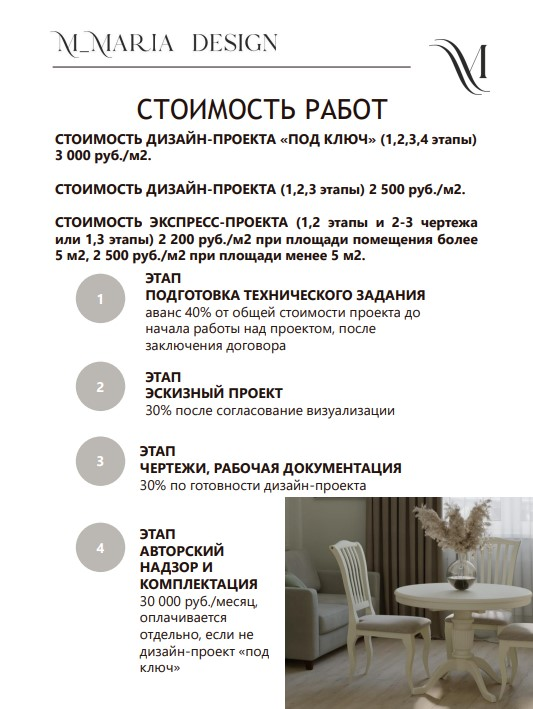
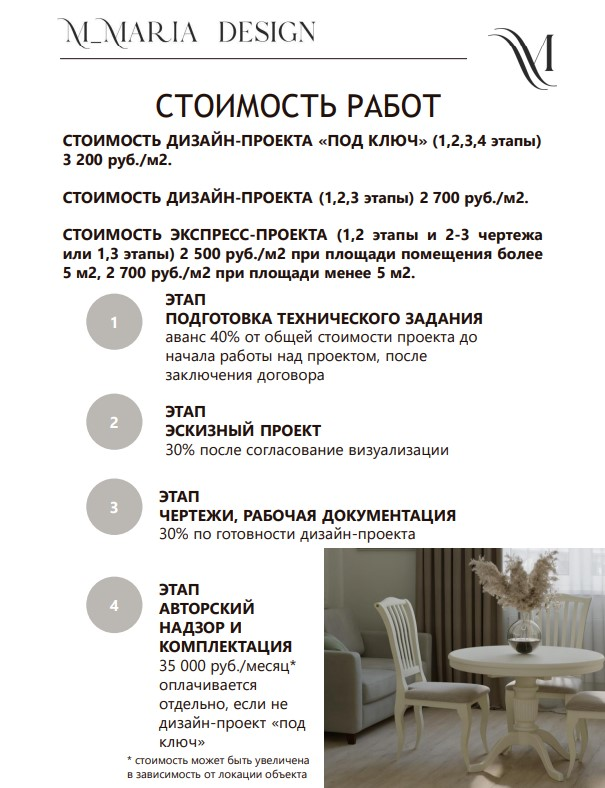
changed service prices Maria_Design

diff --git a/Maria_Design_bot/main.py b/Maria_Design_bot/main.py
@@ -390,11 +390,11 @@ def write_square(message):
 		square = message.text
 		price = float()
 		if property_type == 'Дизайн-проект под ключ':
-			price = 3000
+			price = 3200
 		elif (property_type == 'Дизайн-проект') or (property_type == 'express_project' and float(square) <=5):
-			price = 2500
+			price = 2700
 		elif property_type == 'Экспресс проект' and float(square) >5:
-			price = 2200
+			price = 2500
 		try:
 			insert_reason = 'Индивидуальный расчет'
 			calc = float(square) * price
